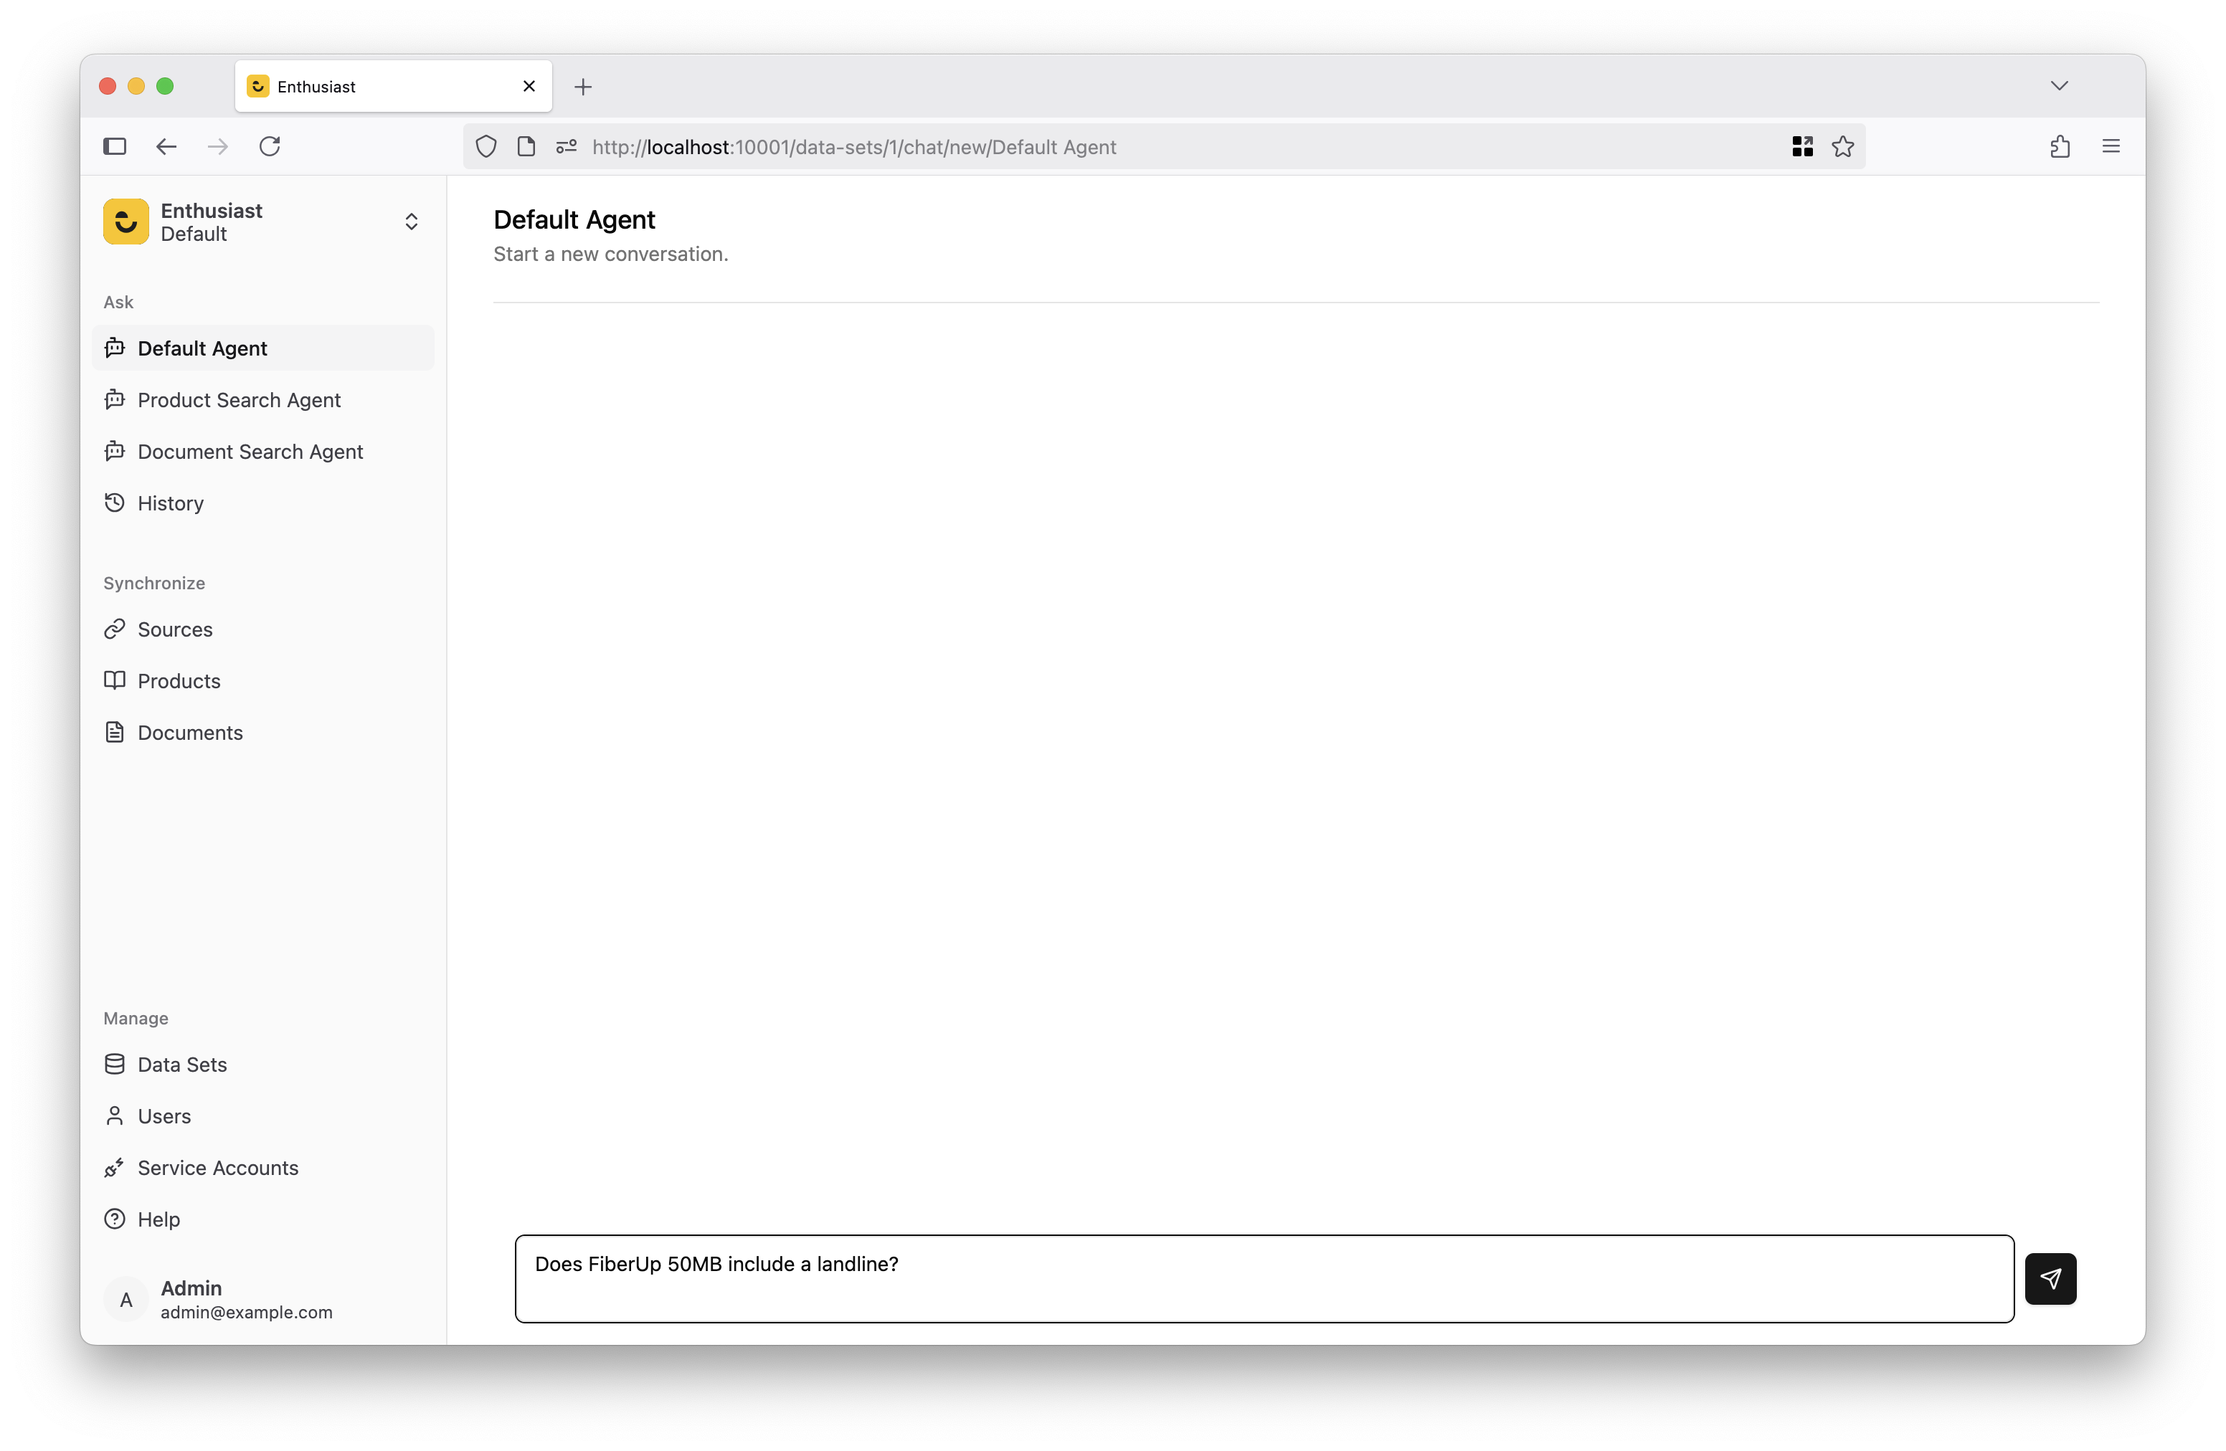
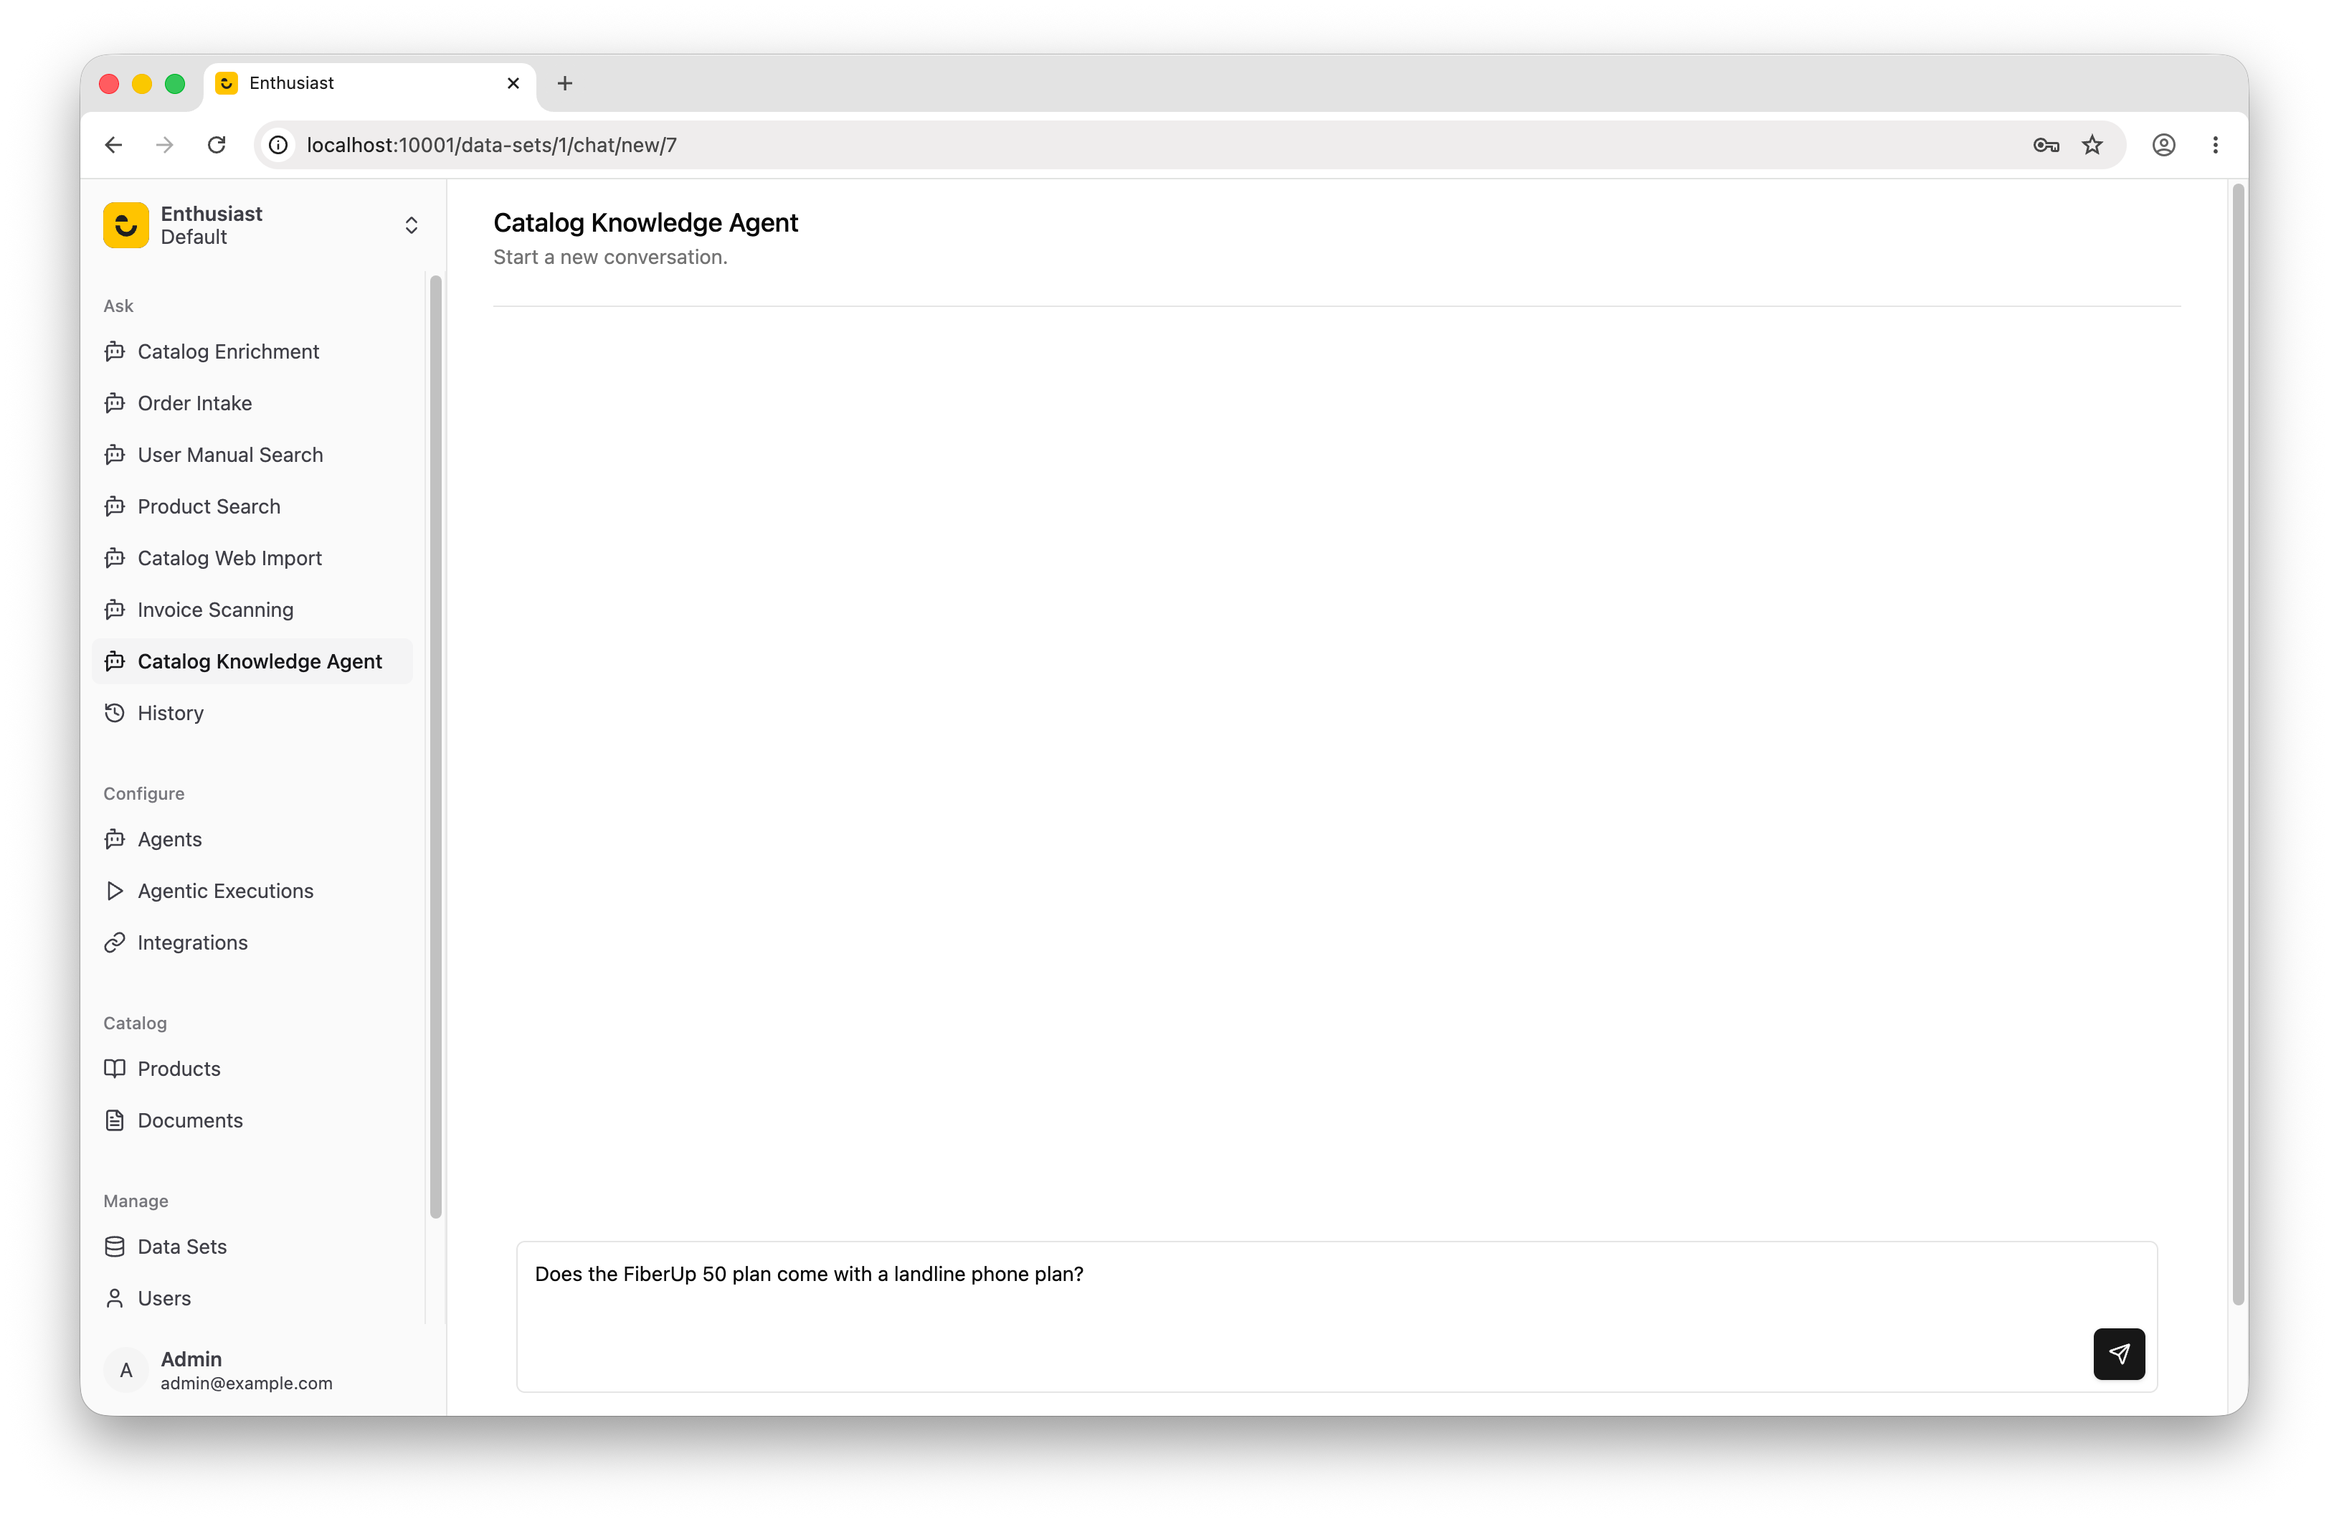
update the try it out and custom agent documentation pages to include more robust agent example

diff --git a/docs/content/docs/customization/custom-agent.md b/docs/content/docs/customization/custom-agent.md
@@ -2,47 +2,166 @@
 sidebar_position: 4
 ---
 
-# Creating custom Agent
-Custom Agent will allow to customize any part of agent providing its configuration, while enthusiast take care of building it.
+# Creating a Custom Agent
 
-## Creating a simple Document Context Agent - which will answer questions about documents.
+A custom agent lets you define exactly which tools the agent has access to and how it should behave, while Enthusiast takes care of building and running it.
 
-### Proposed folder structure
+## Example: Catalog Knowledge Agent
+
+This example walks through building the **Catalog Knowledge Agent** — an agent that can answer questions about both products in the catalog and information from uploaded documents (service descriptions, policies, FAQs, etc.).
+
+In practice, this agent combines the functionality of two of Enthusiast's pre-built agents: the [Product Search agent](/agents/product-search) and the [User Manual Search agent](/agents/user-manual-search). To see what else is available out of the box, visit the [Pre-built Agents](/agents) page.
+
+### How it works
+
+The agent's knowledge comes entirely from tools we attach to it. Each tool receives Enthusiast's default **injector**, which provides a product retriever and a document retriever out of the box — giving tools direct access to the catalog and document store without any extra wiring. See [Injector](/docs/agents/injector) for more details.
+
+**Products — two tools**
+
+Products are queried using SQL against the product catalog table. Because the agent generates the SQL itself, it first needs to understand the shape of the data: what columns exist and what values they contain. That is what `ProductCatalogSampleTool` is for — it fetches a representative sample so the agent can construct valid queries. `ProductSearchTool` then executes the actual natural-language-to-SQL lookup. Two tools are needed because the agent would otherwise have no basis for writing a correct query.
+
+**Documents — one tool**
+
+Documents are stored as vector embeddings and retrieved by semantic similarity. The agent simply passes the user's question to `DocumentRetrievalTool`, which uses the embedding-based retriever to find the closest matching chunks. No schema knowledge is required upfront, so one tool is sufficient.
+
+### Folder structure
 
 ```
-document_context_agent/
+catalog_knowledge_agent/
 ├── __init__.py
 ├── agent.py
 ├── config.py
 ├── prompt.py
 └── tools/
     ├── __init__.py
-    └── document_context_tool.py
+    ├── document_retrieval_tool.py
+    ├── product_catalog_sample_tool.py
+    └── product_search_tool.py
 ```
 
-1. Create a directory for you agent (e.g. `document_context_agent`). Then inside it create `agent.py` file:
+### 1. Define the agent (`agent.py`)
+
 ```python
 from enthusiast_agent_tool_calling import BaseToolCallingAgent
 from enthusiast_common.config.base import LLMToolConfig
 
-from .tools import ContextSearchTool
+from .tools import DocumentRetrievalTool, ProductCatalogSampleTool, ProductSearchTool
 
-class ExampleDocumentContextAgent(BaseToolCallingAgent):
-    AGENT_KEY = "enthusiast-agent-example-document-context"
-    NAME = "Example Document Context Agent"
-    
-    TOOLS = [LLMToolConfig(tool_class=ContextSearchTool)]
+
+class CatalogKnowledgeAgent(BaseToolCallingAgent):
+    AGENT_KEY = "enthusiast-agent-catalog-knowledge"
+    NAME = "Catalog Knowledge Agent"
+    TOOLS = [
+        LLMToolConfig(tool_class=ProductCatalogSampleTool),
+        LLMToolConfig(tool_class=ProductSearchTool),
+        LLMToolConfig(tool_class=DocumentRetrievalTool),
+    ]
 ```
-2. Create Prompt in prompt.py file.
-```python
-DOCUMENT_CONTEXT_AGENT_SYSTEM_PROMPT="""
-You are a helpful agent, answering questions about documents and resources mentioned in them.
 
-Whenever the user asks a question — whether about a document itself or about a resource, topic, or entity mentioned in a document — always use the document context tool first to extract relevant context. Do not ask the user for details that the tool can retrieve; use it proactively to gather the necessary information before answering.
+### 2. Write the system prompt (`prompt.py`)
+
+```python
+CATALOG_KNOWLEDGE_AGENT_SYSTEM_PROMPT = """
+You are a helpful assistant with access to a product catalog and a library of documents (such as service descriptions, policy documents, and FAQs).
+
+When answering a question:
+- If the question is about what products or services are available, start by using the product_catalog_sample tool to understand what the catalog contains, then use product_search to find relevant products.
+- If the question is about the details, terms, features, or policies of a product or service, use the document_retrieval tool to find relevant information from documents.
+- For questions that may involve both (e.g. writing promotional content or customer support responses), use both tools.
+
+Always base your answers on what the tools return. Do not make up details about products or services.
 """
 ```
 
-3. Create context retrieving tool:
+### 3. Create the tools
+
+#### `tools/product_catalog_sample_tool.py`
+
+Returns a sample of products from the catalog. The agent uses this first to understand what is available before running a targeted search.
+
+```python
+import textwrap
+
+from enthusiast_common.injectors import BaseInjector
+from enthusiast_common.tools import BaseLLMTool
+from langchain_core.language_models import BaseLanguageModel
+from pydantic import BaseModel
+
+
+class ProductCatalogSampleToolInput(BaseModel):
+    pass
+
+
+class ProductCatalogSampleTool(BaseLLMTool):
+    NAME = "product_catalog_sample"
+    DESCRIPTION = "Returns a representative sample of products from the catalog. Use this first to understand what kinds of products and services are available before performing a targeted search."
+    ARGS_SCHEMA = ProductCatalogSampleToolInput
+    RETURN_DIRECT = False
+
+    def __init__(
+        self,
+        data_set_id: int,
+        llm: BaseLanguageModel,
+        injector: BaseInjector,
+    ):
+        super().__init__(data_set_id=data_set_id, llm=llm, injector=injector)
+
+    def run(self):
+        product_retriever = self._injector.product_retriever
+        sample_products = product_retriever.get_sample_products_json()
+        response = f"""
+            Here is a sample of products available in the catalog:
+            {sample_products}
+            Use the product_search tool to find products that match the user's specific query.
+        """
+        return textwrap.dedent(response)
+```
+
+#### `tools/product_search_tool.py`
+
+Searches the product catalog using a natural-language description.
+
+```python
+import json
+
+from enthusiast_common.injectors import BaseInjector
+from enthusiast_common.tools import BaseLLMTool
+from langchain_core.language_models import BaseLanguageModel
+from pydantic import BaseModel, Field
+
+
+class ProductSearchToolInput(BaseModel):
+    query: str = Field(description="A natural-language description of the product or service to search for.")
+
+
+class ProductSearchTool(BaseLLMTool):
+    NAME = "product_search"
+    DESCRIPTION = "Searches the product catalog using a natural-language description and returns matching products. Use this to find specific products or services that meet the user's criteria."
+    ARGS_SCHEMA = ProductSearchToolInput
+    RETURN_DIRECT = False
+
+    def __init__(
+        self,
+        data_set_id: int,
+        llm: BaseLanguageModel,
+        injector: BaseInjector,
+    ):
+        super().__init__(data_set_id=data_set_id, llm=llm, injector=injector)
+
+    def run(self, query: str) -> str:
+        product_retriever = self._injector.product_retriever
+        relevant_products = product_retriever.find_products_matching_query(query)
+        if not relevant_products:
+            return "No products found matching the query. Try rephrasing or broadening the search."
+
+        serialized = product_retriever.product_details_as_json(relevant_products)
+        return json.dumps(serialized)
+```
+
+#### `tools/document_retrieval_tool.py`
+
+Retrieves relevant content from uploaded documents (manuals, policies, FAQs, etc.).
+
 ```python
 from enthusiast_common.injectors import BaseInjector
 from enthusiast_common.tools import BaseLLMTool
@@ -50,14 +169,14 @@ from langchain_core.language_models import BaseLanguageModel
 from pydantic import BaseModel, Field
 
 
-class ContextSearchToolInput(BaseModel):
+class DocumentRetrievalToolInput(BaseModel):
     full_user_request: str = Field(description="user's full request")
 
 
-class ContextSearchTool(BaseLLMTool):
-    NAME = "context_search_tool"
+class DocumentRetrievalTool(BaseLLMTool):
+    NAME = "document_retrieval"
     DESCRIPTION = "Use it to get context from documents required for answering questions"
-    ARGS_SCHEMA = ContextSearchToolInput
+    ARGS_SCHEMA = DocumentRetrievalToolInput
     RETURN_DIRECT = False
 
     def __init__(
@@ -74,45 +193,57 @@ class ContextSearchTool(BaseLLMTool):
     def run(self, full_user_request: str):
         document_retriever = self.injector.document_retriever
         relevant_documents = document_retriever.find_content_matching_query(full_user_request)
-        content  = [document.content for document in relevant_documents]
+        content = [document.content for document in relevant_documents]
 
         return content
 ```
 
-4. Create `tools/__init__.py` to expose the tool:
-```python
-from .document_context_tool import ContextSearchTool
+#### `tools/__init__.py`
 
-__all__ = ["ContextSearchTool"]
+```python
+from .document_retrieval_tool import DocumentRetrievalTool
+from .product_catalog_sample_tool import ProductCatalogSampleTool
+from .product_search_tool import ProductSearchTool
+
+__all__ = ["DocumentRetrievalTool", "ProductCatalogSampleTool", "ProductSearchTool"]
 ```
 
-5. Create configuration inside `config.py` file:
+### 4. Create the config provider (`config.py`)
+
 ```python
+from enthusiast_common.agents import BaseAgentConfigProvider, ConfigType
 from enthusiast_common.config import AgentConfigWithDefaults
 
-from .agent import ExampleDocumentContextAgent
-from .prompt import DOCUMENT_CONTEXT_AGENT_SYSTEM_PROMPT
+from .agent import CatalogKnowledgeAgent
+from .prompt import CATALOG_KNOWLEDGE_AGENT_SYSTEM_PROMPT
 
 
-def get_config() -> AgentConfigWithDefaults:
-    return AgentConfigWithDefaults(
-        system_prompt=DOCUMENT_CONTEXT_AGENT_SYSTEM_PROMPT,
-        agent_class=ExampleDocumentContextAgent,
-        tools=ExampleDocumentContextAgent.TOOLS,
-    )
+class CatalogKnowledgeConfigProvider(BaseAgentConfigProvider):
+    def get_config(self, config_type: ConfigType = ConfigType.CONVERSATION) -> AgentConfigWithDefaults:
+        return AgentConfigWithDefaults(
+            system_prompt=CATALOG_KNOWLEDGE_AGENT_SYSTEM_PROMPT,
+            agent_class=CatalogKnowledgeAgent,
+            tools=CatalogKnowledgeAgent.TOOLS,
+        )
 ```
-6. Ensure your agent is available for import from directly your agent directory:
+
+### 5. Expose the agent from the package (`__init__.py`)
+
+The agent registry discovers the agent class and config provider by scanning the package's top-level namespace, so both must be exported here.
+
 ```python
-# document_context_agent/__init__.py
-from .agent import ExampleDocumentContextAgent
+from .agent import CatalogKnowledgeAgent
+from .config import CatalogKnowledgeConfigProvider
 
-__all__ = ["ExampleDocumentContextAgent"]
+__all__ = ["CatalogKnowledgeAgent", "CatalogKnowledgeConfigProvider"]
 ```
-7. Finally add your agent to `settings_override.py`:
+
+### 6. Register the agent in `settings_override.py`
+
 ```python
-AVAILABLE_AGENTS = ['document_context_agent.ExampleDocumentContextAgent']
+AVAILABLE_AGENTS = ['catalog_knowledge_agent.CatalogKnowledgeAgent']
 ```
-Now Agent is available in UI to chat with it.
+
+The agent is now available in the UI.
 
 ![Agent chat](./img/agent-chat.png)
-

diff --git a/docs/content/docs/getting-started/try-it-out.md b/docs/content/docs/getting-started/try-it-out.md
@@ -3,9 +3,11 @@
 Once the test data set has been imported and indexed, you can start chatting with the agent.
 The enthusiast-starter package comes with a few example agents, that are pre-configured to execute different workflows. To learn more how to build custom agents, see the [customization](/docs/customization/system-architecture/) section of the documentation.
 
-For now, let's try the "Default Agent". This is a general purpose RAG-based agent, configured to answer user's questions based on its knowledge of products and documents imported into the system.
+For now, let's try the **Catalog Knowledge Agent**. This agent is configured to answer questions based on both the products and documents imported into the system — it knows how to search the product catalog and retrieve relevant content from uploaded documents.
 
-In the left sidebar, go to “Ask” → “Default Agent”. This will open the chat interface, where you can interact with the AI agent.
+In the left sidebar, go to “Ask” → “Catalog Knowledge Agent”. This will open the chat interface, where you can interact with the AI agent.
+
+The Catalog Knowledge Agent was built following the [Creating a Custom Agent](/docs/customization/custom-agent) tutorial — follow that link to see exactly how it was constructed.
 
 ![Chat with default agent](./img/chat-with-default-agent.png)
 
@@ -23,6 +25,7 @@ In the left sidebar, go to “Ask” → “Default Agent”. This will open the
 
 - [Learn more about data sets](/docs/management/data-sets)
 - [See how to manage users](/docs/management/users)
-- [Build your custom agent](/docs/agents/agent-architecture)
+- [Agent architecture](/docs/agents/agent-architecture)
+- [Build your custom agent](/docs/customization/custom-agent)
 - [View available integrations](/integrations/)
-- [Create a custom plugin](/docs/customization/custom-plugin)
+- [Create a custom integration](/docs/customization/custom-integration)
